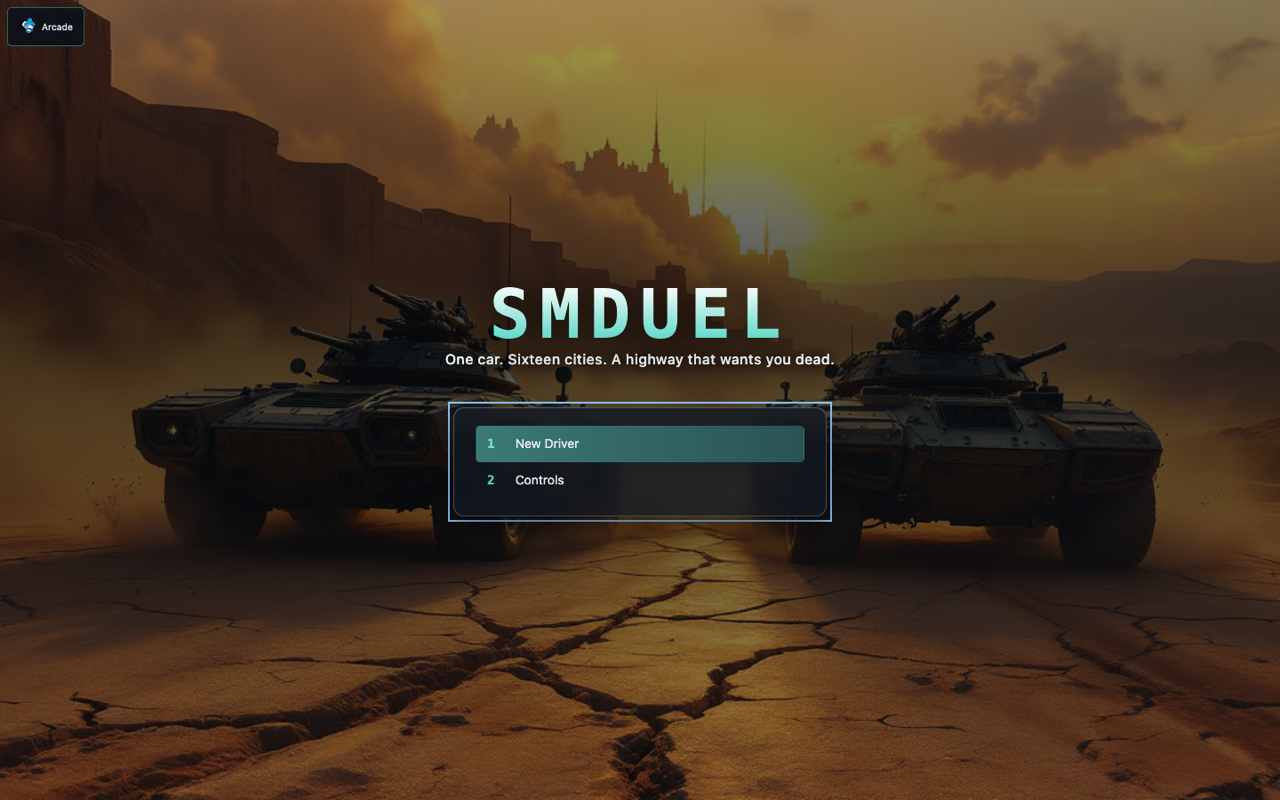
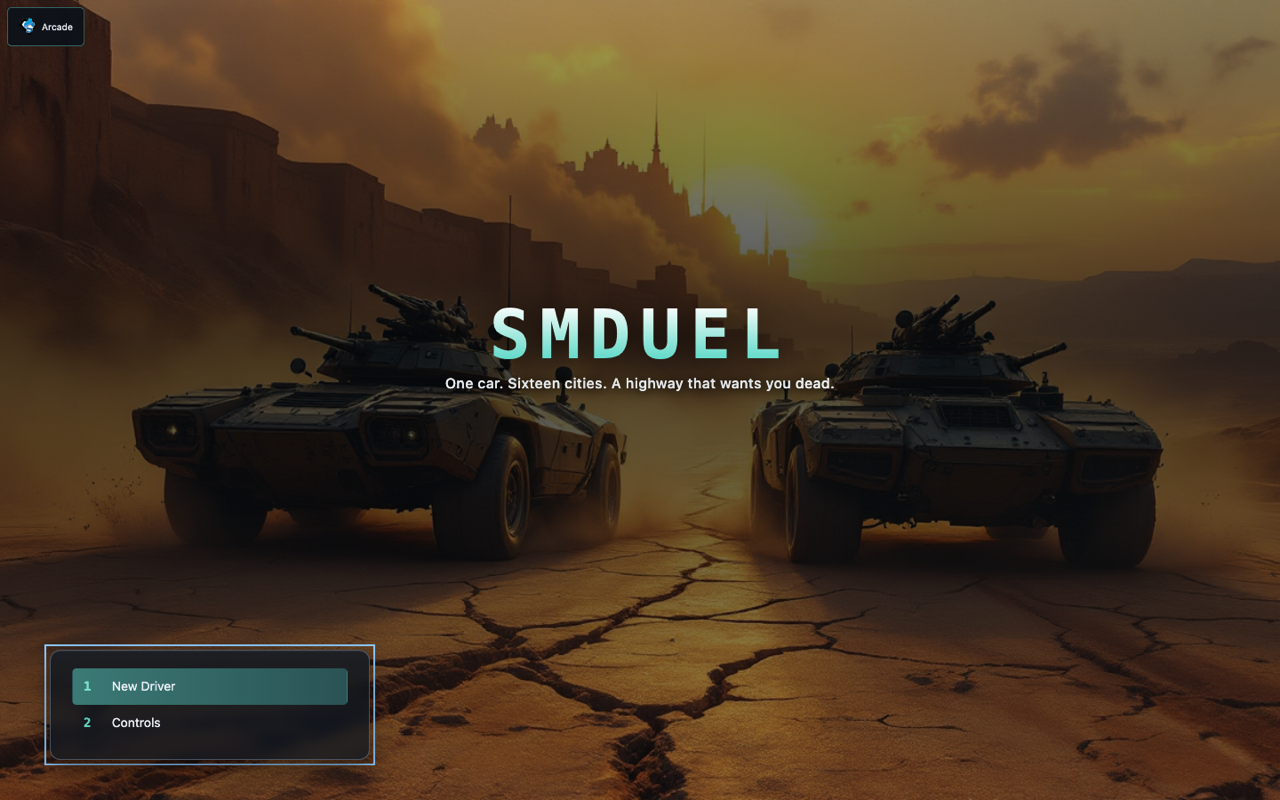
chore(loop): two claims about last month's work, both measured clean 📐
Iteration 44. Reviewer: bytedance-seed/seed-2.0-mini.

Zero real. Nothing changed. Two of the five are claims about work this loop
shipped in the last twenty-two iterations, and both measured clean.

- "The white tagline text overlaps with the bright yellow sun glow, making parts
  of it faded and less readable ... add a dark drop shadow and shift it away from
  the sun's centre." False, and worth measuring rather than asserting because
  iteration 43 MOVED that lockup. Against the brightest background adjacent to
  the tagline, the text peaks at 240.15 on a 64.7 background — 9.00:1, versus
  the 9.48:1 measured before the move. The scrim is darkest at 42% of the frame
  and the lockup now sits at 38%, so the two are still stacked by design. The
  move cost half a ratio point and bought a title screen that shows the art.

- "Two key messages (controls and arena status) are stacked with no spacing,
  creating dense, hard-to-read text." False, and the frame is the clearest
  possible rebuttal: three SEPARATE panels, each with its own background — the
  status pill at 8px, the controls as a fading hint at 34px, and the message
  feed below. That is precisely the layout iteration 22 built, when the single
  run-on element carrying a mode label, three control hints and a seed hash was
  split apart. A review describing the pre-iteration-22 layout as a current
  defect is the "only a thin neon outline" pattern again: describing a fixed
[…]

Changed region(s): [[0.3438, 0.3438, 0.6562, 0.6562], [0.0312, 0.7812, 0.3125, 0.9688]]

diff --git a/.opencode/ralph-loop.local.md b/.opencode/ralph-loop.local.md
@@ -1,6 +1,6 @@
 ---
 active: true
-iteration: 43
+iteration: 44
 maxIterations: 100
 sessionId: ses_f14a7ff23ffeCvOeqyAPPjegV6
 ---
@@ -9,7 +9,7 @@ lets do a infiniate improving loop each time ask a random state of the art visio
 
 ## Log
 
-Reviewers asked (43 of 82 vision models):
+Reviewers asked (44 of 82 vision models):
 1. google/gemini-3.8-flash      -> title wordmark, constructor (3 bugs incl. one I missed), city motorway-through-wall
 2. openai/gpt-5.4-mini         -> radar instrument, condition dashboard, player/opponent contrast, title hierarchy
 3. qwen/qwen3.5-122b-a10b      -> road lane markings (carried x2), preview/menu contrast, radar rings (claim WRONG - checked)
@@ -1225,6 +1225,53 @@ TOOLING - the review harness got audited by its own failure this round:
        31 and 34 damped the high frequencies without touching the low-frequency
        lattice, and the two-scale blend is what breaks the repeat the reviewer is
        reading as a seam.
+
+44. bytedance-seed/seed-2.0-mini -> ZERO REAL. Nothing changed. Two of the
+     five are claims about work this loop shipped in the last twenty-two
+     iterations, and both measured clean, which is the useful part:
+     - "The white tagline text overlaps with the bright yellow sun glow, making
+       parts of it faded and less readable ... add a dark drop shadow and shift
+       it away from the sun's centre." FALSE, and it is worth measuring rather
+       than asserting because iteration 43 MOVED that lockup. Composited
+       against the brightest background adjacent to the tagline, the text peaks
+       at 240.15 on a 64.7 background — 9.00:1, against the 9.48:1 measured
+       before the move. The scrim is at its darkest at 42% of the frame and
+       the lockup now sits at 38%, so the two are still stacked by design; the
+       move cost 0.5 of a ratio point and bought a title screen that shows the
+       art. The sun glow is off to the side of the text, not under it;
+     - "Two key messages (controls and arena status) are stacked with no
+       spacing, creating dense, hard-to-read text." FALSE, and the frame is the
+       clearest possible rebuttal: three SEPARATE panels, each with its own
+       background, at 8px / 34px / and the message feed below — "Practice
+       arena" as the status pill, the controls as a fading hint, and "Practice
+       arena entered — free run, no opponents." as the feed. That is precisely
+       the layout iteration 22 built, when the single run-on element carrying a
+       mode label, three control hints and a seed hash was split apart. A review
+       describing the pre-iteration-22 layout as a current defect is the
+       six-times-reported "only a thin neon outline" pattern again: describing a
+       fixed state rather than reading the shipped one;
+     - "Add a thin rotating cyan sweep line and placeholder contact blips to the
+       radar to confirm it is active." TWENTY-EIGHTH report on that element, and
+       the fix is the one this loop has declined seven times, for the same
+       reason: a practice arena with no opponents would gain FABRICATED contacts
+       whose only purpose is to make an empty readout look busy. An instrument
+       that invents signals to look functional is worse than a quiet one;
+     - "Divide the progress bar into 10 equal segments." Fifth report of this
+       class. The bar is a continuous fill with a vehicle glyph at its head and
+       the remaining miles in the objective line directly above it. A segmented
+       bar is a legitimate alternative design, and iteration 22 declined the
+       duplicate readout for the same reason this declines it: the number is
+       already on screen, one row up;
+     - "Add a numeric value and a colour-coded micro-bar next to each armour
+       facing." Seventh report of this class, and it describes exactly what
+       iterations 21 and 25 built — a loud dashed chip when nothing is fitted,
+       and a real number plus a real depleting bar when something is. On a
+       pristine capture every facing genuinely IS unfitted, so every chip
+       genuinely IS empty.
+     NO CODE CHANGED. The tagline measurement is the one worth keeping: the
+     composition change cost 0.5 of a contrast point and the art is visible for
+     the first time, which is a trade this loop should make knowingly rather than
+     discover later — and now that it is written down, it is known.
 
 DEFERRED (real, documented, not bugs):
 - TITLE ART SHOWS TANKS, NOT CARS (iteration 36) - the top art item. It is an
